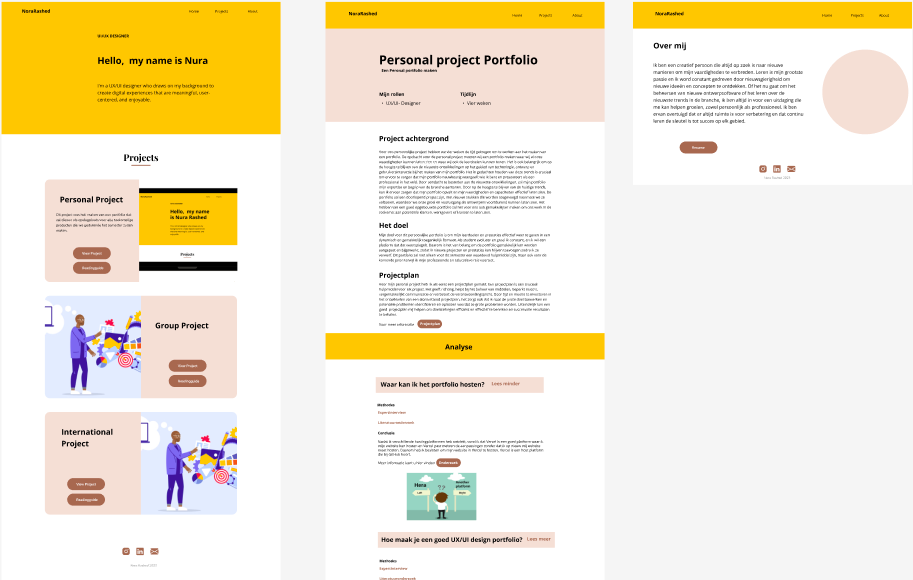
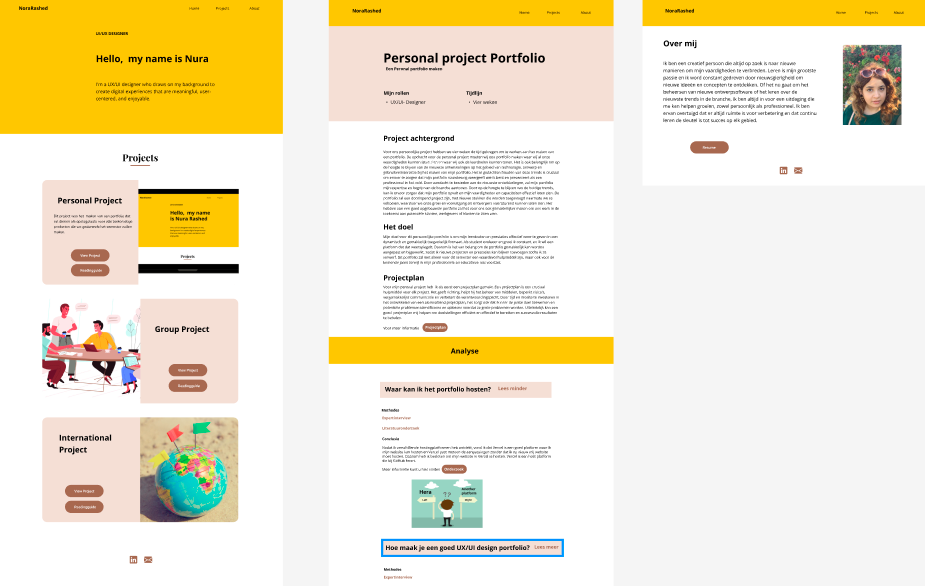
kleine aanpassingen

diff --git a/index.html b/index.html
@@ -76,7 +76,7 @@
         <div class="container">
             <div class="ProjrctImg">
                 <img class="containerImg" src="Public/images/Mochup.png"
-                    alt="Your image description here" />
+                    alt="Individual" />
             </div>
             <div class="ProjrctDesc">
                 <h1 class="center">Personal project </h1>
@@ -102,8 +102,8 @@
 
             </div>
             <div class="ProjrctImg">
-                <img class="containerImg" src="https://www.w3schools.com/howto/img_parallax.jpg"
-                    alt="Your image description here" />
+                <img class="containerImg" src="Public/images/team.jpg"
+                    alt="Group " />
 
             </div>
         </div>
@@ -111,8 +111,8 @@
         <!-- ---------------Projects  3  ---------- -->
         <div class="container">
             <div class="ProjrctImg">
-                <img class="containerImg" src="https://www.w3schools.com/howto/img_parallax.jpg"
-                    alt="Your image description here" />
+                <img class="containerImg" src="Public/images/international.jpg"
+                    alt="International" />
             </div>
             <div class="ProjrctDesc">
                 <h1 class="center">International project</h1>
